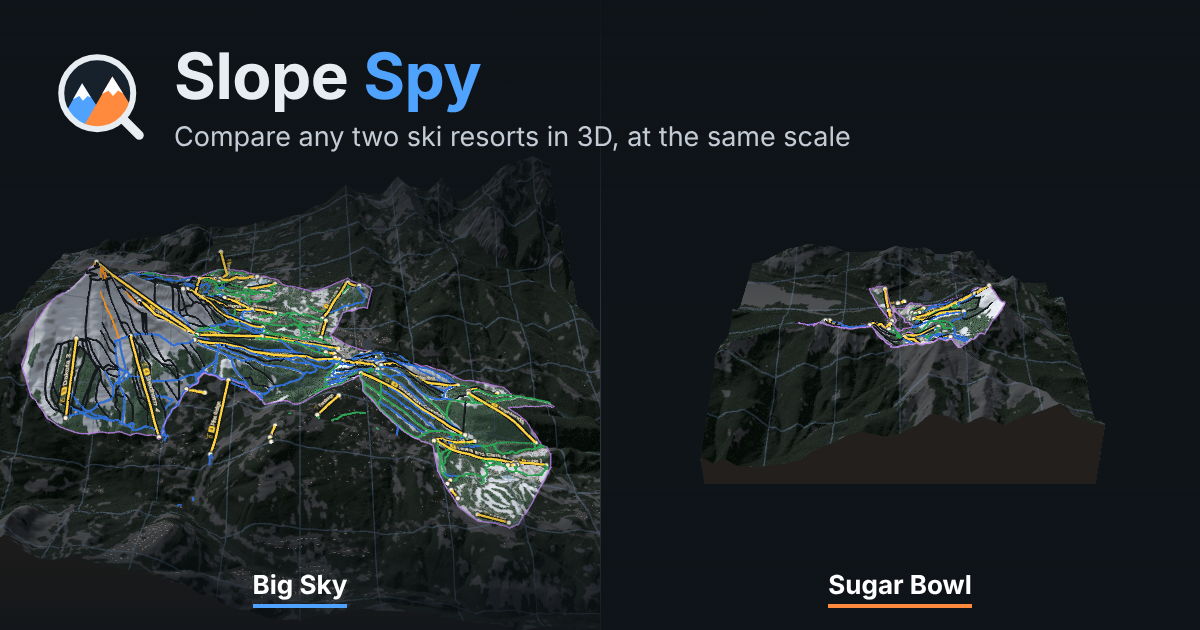
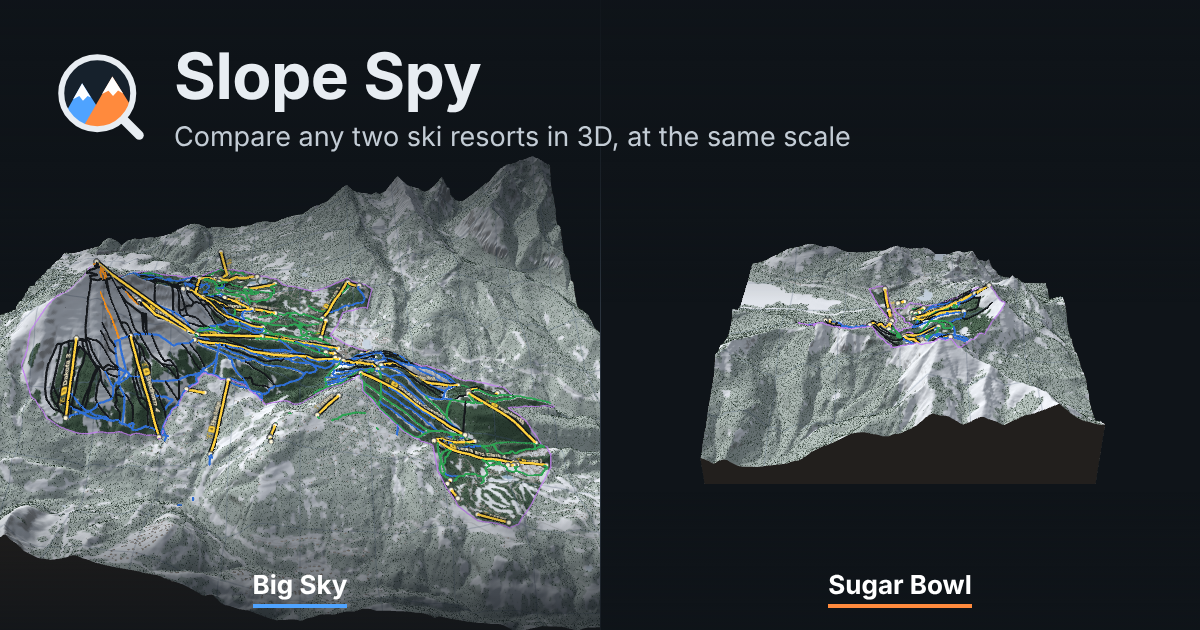
Lighten outside the ski area by 67%; all-white Slope Spy wordmark
Claude-Session: https://claude.ai/code/session_01KrSPLNF9NdbaryKdskRa1a

Changed region(s): [[0.0, 0.2413, 0.5242, 1.0], [0.5858, 0.3921, 0.925, 0.754], [0.3083, 0.0603, 0.4008, 0.181]]

diff --git a/docs/resorts.html b/docs/resorts.html
@@ -12,7 +12,7 @@
   body { margin: 0; background: #0f1419; color: var(--fg); font: 14px/1.5 system-ui, -apple-system, "Segoe UI", Roboto, sans-serif; }
   header { padding: 12px 16px; border-bottom: 1px solid var(--line); }
   .brand { display: inline-flex; align-items: center; gap: 8px; color: var(--fg); text-decoration: none; font-size: 17px; font-weight: 650; }
-  .brand b { color: var(--a); }
+  .brand b { color: inherit; font-weight: inherit; }
   main { max-width: 1100px; margin: 0 auto; padding: 8px 16px 40px; }
   h1 { font-size: 22px; margin: 18px 0 4px; }
   h2 { font-size: 13px; text-transform: uppercase; letter-spacing: .06em; margin: 28px 0 0; padding-bottom: 4px; border-bottom: 1px solid var(--line); }

diff --git a/docs/style.css b/docs/style.css
@@ -192,7 +192,7 @@ html.sheet-open, html.sheet-open body { overflow: hidden; overscroll-behavior: n
 /* brand */
 .brand { display: inline-flex; align-items: center; gap: 8px; color: var(--fg); text-decoration: none; font-size: 17px; font-weight: 650; letter-spacing: .1px; white-space: nowrap; }
 .brand img { display: block; }
-.brand b { color: var(--a); font-weight: 750; }
+.brand b { color: inherit; font-weight: inherit; }
 @media (max-width: 760px) { .brand { font-size: 16px; gap: 6px; } .brand img { width: 26px; height: 26px; } }
 .about-body h3 + .links { margin-top: 2px; }
 .links { display: flex; flex-wrap: wrap; gap: 2px 12px; margin: 0; padding: 0; list-style: none; font-size: 13px; }

diff --git a/docs/app.js b/docs/app.js
@@ -695,7 +695,7 @@ function paintGround(lc, features, crop, z, widthM, boundary) {
 }
 
 // Shading: -100 darkens to black, +100 lightens to white.
-const shading = { inside: 10, outside: -67 };  // +10 lightens inside the ski area, -67 darkens outside
+const shading = { inside: 10, outside: 67 };  // lighten inside the ski area by 10%, outside by 67%
 let shadeTmp = null;
 function applyShading(G) {
   const { cv, base, mask, tex } = G, W = cv.width, H = cv.height;

diff --git a/scripts/build_pages.py b/scripts/build_pages.py
@@ -118,7 +118,7 @@ directory = f'''<!doctype html>
   body {{ margin: 0; background: #0f1419; color: var(--fg); font: 14px/1.5 system-ui, -apple-system, "Segoe UI", Roboto, sans-serif; }}
   header {{ padding: 12px 16px; border-bottom: 1px solid var(--line); }}
   .brand {{ display: inline-flex; align-items: center; gap: 8px; color: var(--fg); text-decoration: none; font-size: 17px; font-weight: 650; }}
-  .brand b {{ color: var(--a); }}
+  .brand b {{ color: inherit; font-weight: inherit; }}
   main {{ max-width: 1100px; margin: 0 auto; padding: 8px 16px 40px; }}
   h1 {{ font-size: 22px; margin: 18px 0 4px; }}
   h2 {{ font-size: 13px; text-transform: uppercase; letter-spacing: .06em; margin: 28px 0 0; padding-bottom: 4px; border-bottom: 1px solid var(--line); }}
